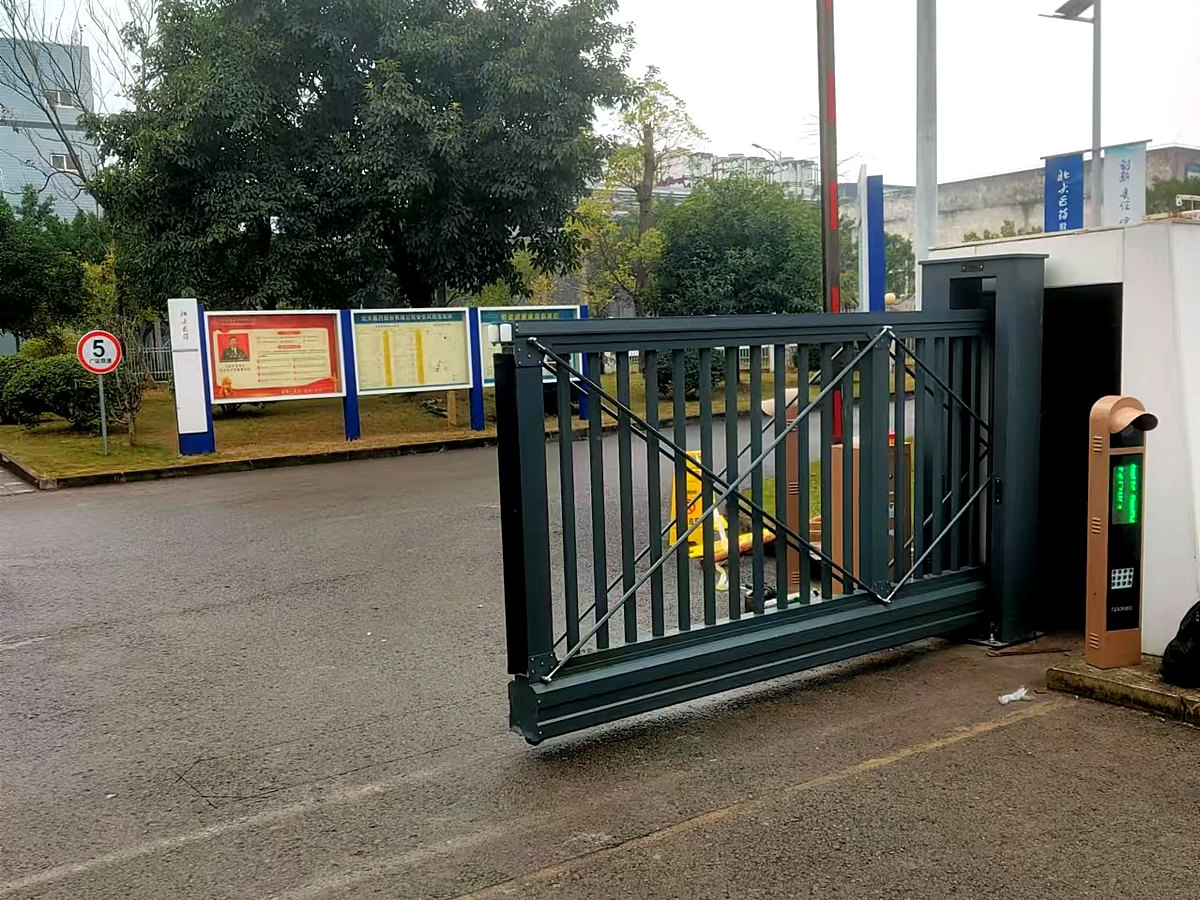
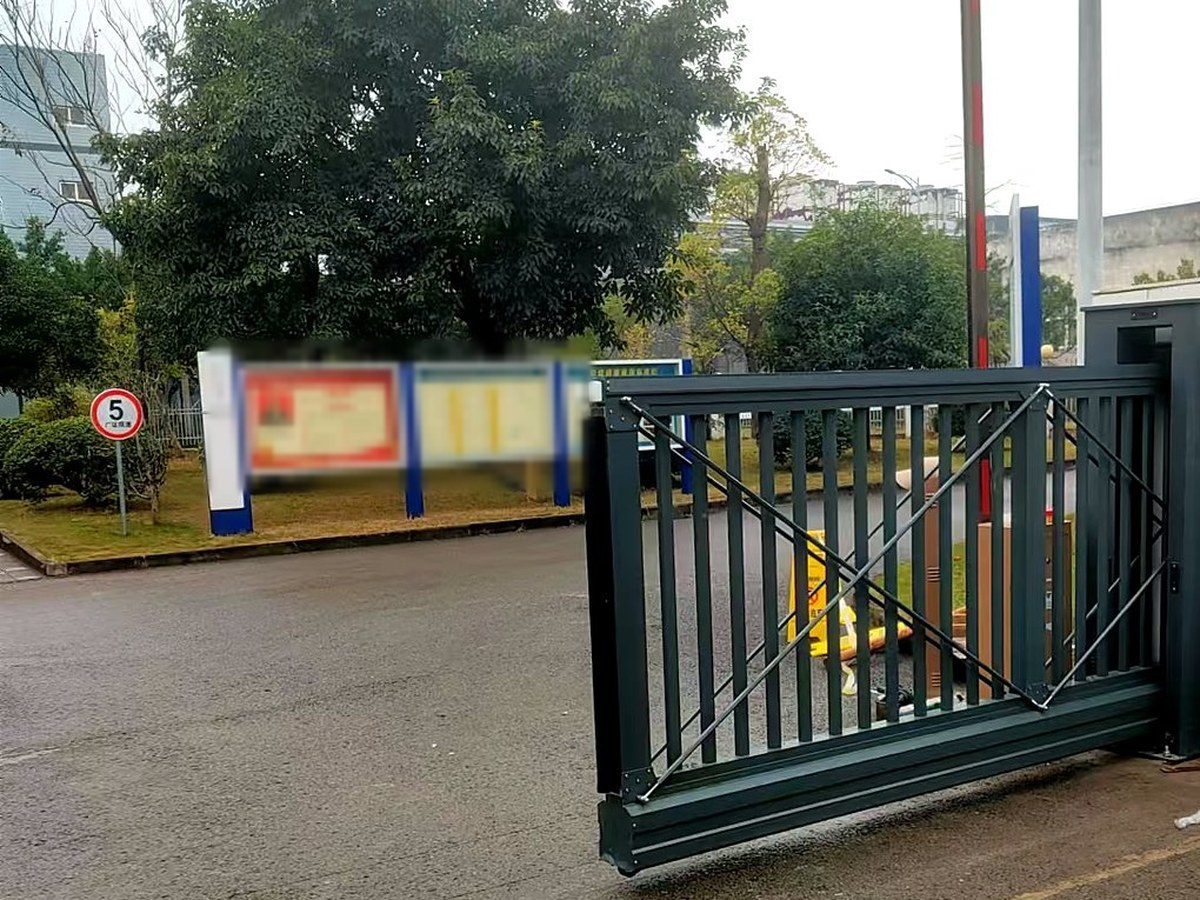
image: 悬浮门图片隐去客户标识（主图裁掉标识墙、第二图与案例图打码），引用加版本号

diff --git a/cases/suspended-gate-case.html b/cases/suspended-gate-case.html
@@ -17,7 +17,7 @@
 <meta property="og:title" content="某上市药企厂区悬浮门项目案例｜无地轨大门｜立高门业">
 <meta property="og:description" content="某上市药企厂区主入口悬浮门项目：无地轨、门口地面完整，配合道闸管理车辆进出。了解悬浮门选型、安装要点与现场实拍。">
 <meta property="og:url" content="https://ligaomenye.com/cases/suspended-gate-case.html">
-<meta property="og:image" content="https://ligaomenye.com/images/projects/suspended-gate.jpg">
+<meta property="og:image" content="https://ligaomenye.com/images/projects/suspended-gate.jpg?v=3">
 <meta name="twitter:card" content="summary_large_image">
 <link rel="icon" href="../images/favicon.png">
 <style>
@@ -171,7 +171,7 @@ footer a { color:#c3d3e0; }
   .strip p { font-size:15px; }
 }
 </style>
-<script type="application/ld+json">{"@context": "https://schema.org", "@graph": [{"@type": "Article", "headline": "某上市药企厂区悬浮门项目案例", "description": "某上市药企厂区主入口悬浮门项目：无地轨、门口地面完整，配合道闸管理车辆进出。了解悬浮门选型、安装要点与现场实拍。", "image": ["https://ligaomenye.com/images/projects/suspended-gate.jpg"], "datePublished": "2026-10-24", "dateModified": "2026-10-24", "author": {"@type": "Organization", "name": "重庆立高门业有限公司", "url": "https://ligaomenye.com/"}, "publisher": {"@type": "Organization", "name": "重庆立高门业有限公司", "url": "https://ligaomenye.com/"}, "mainEntityOfPage": {"@type": "WebPage", "@id": "https://ligaomenye.com/cases/suspended-gate-case.html"}}, {"@type": "FAQPage", "mainEntity": [{"@type": "Question", "name": "悬浮门适合医药园区吗？", "acceptedAnswer": {"@type": "Answer", "text": "适合主入口这类要求地面完整、通行宽度大的位置。无地轨便于清洁，门体关闭后能形成边界；但基础、抗风和防撞要按现场核算。"}}, {"@type": "Question", "name": "悬浮门需要地面轨道吗？", "acceptedAnswer": {"@type": "Answer", "text": "不需要地面轨道，但需要下梁、托轮和立柱导向，两侧基础要能承受门体荷载。地面不开槽不等于没有安装要求。"}}, {"@type": "Question", "name": "能和道闸一起用吗？", "acceptedAnswer": {"@type": "Answer", "text": "可以。常见是悬浮门管大门边界，道闸管车辆进出和识别；两者逻辑要协调，避免同时动作或夹车。"}}]}, {"@type": "BreadcrumbList", "itemListElement": [{"@type": "ListItem", "position": 1, "name": "首页", "item": "https://ligaomenye.com/"}, {"@type": "ListItem", "position": 2, "name": "工程案例", "item": "https://ligaomenye.com/#projects"}, {"@type": "ListItem", "position": 3, "name": "某上市药企", "item": "https://ligaomenye.com/cases/suspended-gate-case.html"}]}]}</script>
+<script type="application/ld+json">{"@context": "https://schema.org", "@graph": [{"@type": "Article", "headline": "某上市药企厂区悬浮门项目案例", "description": "某上市药企厂区主入口悬浮门项目：无地轨、门口地面完整，配合道闸管理车辆进出。了解悬浮门选型、安装要点与现场实拍。", "image": ["https://ligaomenye.com/images/projects/suspended-gate.jpg?v=3"], "datePublished": "2026-10-24", "dateModified": "2026-10-24", "author": {"@type": "Organization", "name": "重庆立高门业有限公司", "url": "https://ligaomenye.com/"}, "publisher": {"@type": "Organization", "name": "重庆立高门业有限公司", "url": "https://ligaomenye.com/"}, "mainEntityOfPage": {"@type": "WebPage", "@id": "https://ligaomenye.com/cases/suspended-gate-case.html"}}, {"@type": "FAQPage", "mainEntity": [{"@type": "Question", "name": "悬浮门适合医药园区吗？", "acceptedAnswer": {"@type": "Answer", "text": "适合主入口这类要求地面完整、通行宽度大的位置。无地轨便于清洁，门体关闭后能形成边界；但基础、抗风和防撞要按现场核算。"}}, {"@type": "Question", "name": "悬浮门需要地面轨道吗？", "acceptedAnswer": {"@type": "Answer", "text": "不需要地面轨道，但需要下梁、托轮和立柱导向，两侧基础要能承受门体荷载。地面不开槽不等于没有安装要求。"}}, {"@type": "Question", "name": "能和道闸一起用吗？", "acceptedAnswer": {"@type": "Answer", "text": "可以。常见是悬浮门管大门边界，道闸管车辆进出和识别；两者逻辑要协调，避免同时动作或夹车。"}}]}, {"@type": "BreadcrumbList", "itemListElement": [{"@type": "ListItem", "position": 1, "name": "首页", "item": "https://ligaomenye.com/"}, {"@type": "ListItem", "position": 2, "name": "工程案例", "item": "https://ligaomenye.com/#projects"}, {"@type": "ListItem", "position": 3, "name": "某上市药企", "item": "https://ligaomenye.com/cases/suspended-gate-case.html"}]}]}</script>
 </head><body>
 <nav>
   <div class="inner">
@@ -204,7 +204,7 @@ footer a { color:#c3d3e0; }
       </div>
     </div>
     <div class="phero-visual">
-      <img src="../images/projects/suspended-gate.jpg" alt="某上市药企悬浮门项目 — 重庆立高门业" width="1200" height="900" style="height:420px;object-fit:cover" fetchpriority="high">
+      <img src="../images/projects/suspended-gate.jpg?v=3" alt="某上市药企悬浮门项目 — 重庆立高门业" width="1200" height="900" style="height:420px;object-fit:cover" fetchpriority="high">
       <p class="cap">某上市药企 · 厂区主入口悬浮门</p>
     </div>
   </div>
@@ -247,7 +247,7 @@ footer a { color:#c3d3e0; }
     <section>
       <h2>现场照片</h2>
       <div class="gal">
-        <figure><img src="../images/projects/suspended-gate.jpg" alt="某上市药企厂区主入口悬浮门 — 重庆立高门业" width="1049" height="1400" loading="lazy"><figcaption>某上市药企 · 厂区主入口 · 悬浮门</figcaption></figure>
+        <figure><img src="../images/projects/suspended-gate.jpg?v=3" alt="某上市药企厂区主入口悬浮门 — 重庆立高门业" width="1049" height="1400" loading="lazy"><figcaption>某上市药企 · 厂区主入口 · 悬浮门</figcaption></figure>
       </div>
     </section>
 

diff --git a/guides/retractable-vs-suspended.html b/guides/retractable-vs-suspended.html
@@ -17,7 +17,7 @@
 <meta property="og:title" content="伸缩门和悬浮门有什么区别？优缺点、价格与适用场景｜立高门业">
 <meta property="og:description" content="伸缩门和悬浮门怎么选？从结构、地面条件、抗风、价格、维护和适用场景对比，附选型清单。重庆立高门业，电话189-8391-9000。">
 <meta property="og:url" content="https://ligaomenye.com/guides/retractable-vs-suspended.html">
-<meta property="og:image" content="https://ligaomenye.com/images/products/suspended-door.jpg">
+<meta property="og:image" content="https://ligaomenye.com/images/products/suspended-door.jpg?v=3">
 <meta name="twitter:card" content="summary_large_image">
 <link rel="icon" href="../images/favicon.png">
 <style>
@@ -171,7 +171,7 @@ footer a { color:#c3d3e0; }
   .strip p { font-size:15px; }
 }
 </style>
-<script type="application/ld+json">{"@context": "https://schema.org", "@graph": [{"@type": "Article", "headline": "伸缩门和悬浮门有什么区别？", "description": "伸缩门和悬浮门怎么选？从结构、地面条件、抗风、价格、维护和适用场景对比，附选型清单。重庆立高门业，电话189-8391-9000。", "image": ["https://ligaomenye.com/images/products/suspended-door.jpg"], "datePublished": "2026-10-24", "dateModified": "2026-10-24", "author": {"@type": "Organization", "name": "重庆立高门业有限公司", "url": "https://ligaomenye.com/"}, "publisher": {"@type": "Organization", "name": "重庆立高门业有限公司", "url": "https://ligaomenye.com/"}, "mainEntityOfPage": {"@type": "WebPage", "@id": "https://ligaomenye.com/guides/retractable-vs-suspended.html"}}, {"@type": "FAQPage", "mainEntity": [{"@type": "Question", "name": "悬浮门是不是完全不用轨道？", "acceptedAnswer": {"@type": "Answer", "text": "不铺地面轨道，但仍有下梁、托轮和立柱导向。地面不需要开槽，不等于对基础和安装没有要求。"}}, {"@type": "Question", "name": "伸缩门和悬浮门哪个贵？", "acceptedAnswer": {"@type": "Answer", "text": "同长度下，伸缩门通常更低；悬浮门的结构、驱动和基础成本更高。具体要看门洞、门体长度、材质和配置。"}}, {"@type": "Question", "name": "旧地面能不能装？", "acceptedAnswer": {"@type": "Answer", "text": "要看平整度、坡度和基础条件。伸缩门需要导轨基础；悬浮门需要两侧立柱和承载基础，必要时做局部改造。"}}, {"@type": "Question", "name": "大风地区用哪种？", "acceptedAnswer": {"@type": "Answer", "text": "两种都要按当地风压和门体长度核算。悬浮门框架结构抗风较好，但超长、超高门体仍需做专项计算，不能只看门型。"}}]}, {"@type": "BreadcrumbList", "itemListElement": [{"@type": "ListItem", "position": 1, "name": "首页", "item": "https://ligaomenye.com/"}, {"@type": "ListItem", "position": 2, "name": "产品中心", "item": "https://ligaomenye.com/#products"}, {"@type": "ListItem", "position": 3, "name": "伸缩门和悬浮门区别", "item": "https://ligaomenye.com/guides/retractable-vs-suspended.html"}]}]}</script>
+<script type="application/ld+json">{"@context": "https://schema.org", "@graph": [{"@type": "Article", "headline": "伸缩门和悬浮门有什么区别？", "description": "伸缩门和悬浮门怎么选？从结构、地面条件、抗风、价格、维护和适用场景对比，附选型清单。重庆立高门业，电话189-8391-9000。", "image": ["https://ligaomenye.com/images/products/suspended-door.jpg?v=3"], "datePublished": "2026-10-24", "dateModified": "2026-10-24", "author": {"@type": "Organization", "name": "重庆立高门业有限公司", "url": "https://ligaomenye.com/"}, "publisher": {"@type": "Organization", "name": "重庆立高门业有限公司", "url": "https://ligaomenye.com/"}, "mainEntityOfPage": {"@type": "WebPage", "@id": "https://ligaomenye.com/guides/retractable-vs-suspended.html"}}, {"@type": "FAQPage", "mainEntity": [{"@type": "Question", "name": "悬浮门是不是完全不用轨道？", "acceptedAnswer": {"@type": "Answer", "text": "不铺地面轨道，但仍有下梁、托轮和立柱导向。地面不需要开槽，不等于对基础和安装没有要求。"}}, {"@type": "Question", "name": "伸缩门和悬浮门哪个贵？", "acceptedAnswer": {"@type": "Answer", "text": "同长度下，伸缩门通常更低；悬浮门的结构、驱动和基础成本更高。具体要看门洞、门体长度、材质和配置。"}}, {"@type": "Question", "name": "旧地面能不能装？", "acceptedAnswer": {"@type": "Answer", "text": "要看平整度、坡度和基础条件。伸缩门需要导轨基础；悬浮门需要两侧立柱和承载基础，必要时做局部改造。"}}, {"@type": "Question", "name": "大风地区用哪种？", "acceptedAnswer": {"@type": "Answer", "text": "两种都要按当地风压和门体长度核算。悬浮门框架结构抗风较好，但超长、超高门体仍需做专项计算，不能只看门型。"}}]}, {"@type": "BreadcrumbList", "itemListElement": [{"@type": "ListItem", "position": 1, "name": "首页", "item": "https://ligaomenye.com/"}, {"@type": "ListItem", "position": 2, "name": "产品中心", "item": "https://ligaomenye.com/#products"}, {"@type": "ListItem", "position": 3, "name": "伸缩门和悬浮门区别", "item": "https://ligaomenye.com/guides/retractable-vs-suspended.html"}]}]}</script>
 </head><body>
 <nav>
   <div class="inner">
@@ -204,7 +204,7 @@ footer a { color:#c3d3e0; }
       </div>
     </div>
     <div class="phero-visual">
-      <img src="../images/products/suspended-door.jpg" alt="伸缩门和悬浮门区别 — 重庆立高门业" width="1200" height="900" fetchpriority="high">
+      <img src="../images/products/suspended-door.jpg?v=3" alt="伸缩门和悬浮门区别 — 重庆立高门业" width="1200" height="900" fetchpriority="high">
       <p class="cap">悬浮门 · 无地轨大门</p>
     </div>
   </div>

diff --git a/suspended-door.html b/suspended-door.html
@@ -17,7 +17,7 @@
 <meta property="og:title" content="悬浮门（无轨悬浮大门）选型与参数｜重庆立高门业">
 <meta property="og:description" content="悬浮门怎么选：无地轨的运行原理、适用洞口宽度与门体高度、立柱基础与安装条件、维护周期，附某上市药企项目实拍与产品图。重庆本地勘测报价 189-8391-9000。">
 <meta property="og:url" content="https://ligaomenye.com/suspended-door.html">
-<meta property="og:image" content="https://ligaomenye.com/images/products/suspended-door.jpg">
+<meta property="og:image" content="https://ligaomenye.com/images/products/suspended-door.jpg?v=3">
 <meta name="twitter:card" content="summary_large_image">
 <link rel="icon" href="images/favicon.png">
 <script type="application/ld+json">
@@ -29,7 +29,7 @@
   "description": "悬浮门怎么选：无地轨的运行原理、适用洞口宽度与门体高度、立柱基础与安装条件、维护周期，附某上市药企项目实拍与产品图。重庆本地勘测报价 189-8391-9000。",
   "category": "电动大门 / 无轨悬浮门",
   "image": [
-   "https://ligaomenye.com/images/products/suspended-door.jpg"
+   "https://ligaomenye.com/images/products/suspended-door.jpg?v=3"
   ],
   "url": "https://ligaomenye.com/suspended-door.html",
   "brand": {
@@ -318,7 +318,7 @@ footer a { color:#c3d3e0; }
       </div>
     </div>
     <div class="phero-visual">
-      <img src="images/products/suspended-door.jpg" alt="悬浮门（某上市药企项目实拍）— 重庆立高门业" width="1200" height="900" fetchpriority="high">
+      <img src="images/products/suspended-door.jpg?v=3" alt="悬浮门（某上市药企项目实拍）— 重庆立高门业" width="1200" height="900" fetchpriority="high">
       <p class="cap">某上市药企 · 无轨悬浮门</p>
     </div>
   </div>
@@ -404,8 +404,8 @@ footer a { color:#c3d3e0; }
     <section>
       <h2>项目实拍</h2>
       <div class="gal">
-        <figure><img src="images/products/suspended-door.jpg" alt="某上市药企悬浮门（闭合状态）— 重庆立高门业" width="1200" height="900" loading="lazy"><figcaption>某上市药企 · 悬浮门（闭合）</figcaption></figure>
-        <figure><img src="images/products/suspended-door-2.jpg" alt="某上市药企悬浮门（运行状态，门体离地无地轨）— 重庆立高门业" width="1200" height="900" loading="lazy"><figcaption>某上市药企 · 门体运行状态</figcaption></figure>
+        <figure><img src="images/products/suspended-door.jpg?v=3" alt="某上市药企悬浮门（闭合状态）— 重庆立高门业" width="1200" height="900" loading="lazy"><figcaption>某上市药企 · 悬浮门（闭合）</figcaption></figure>
+        <figure><img src="images/products/suspended-door-2.jpg?v=3" alt="某上市药企悬浮门（运行状态，门体离地无地轨）— 重庆立高门业" width="1200" height="900" loading="lazy"><figcaption>某上市药企 · 门体运行状态</figcaption></figure>
         <figure><img src="images/products/suspended-door-3.jpg" alt="悬浮门 01 产品图（无地轨，门体离地运行）— 重庆立高门业" width="1200" height="477" loading="lazy"><figcaption>产品图 · 悬浮门 01</figcaption></figure>
       </div>
     </section>

diff --git a/index.html b/index.html
@@ -210,7 +210,7 @@
         "name": "悬浮门",
         "description": "无轨悬浮运行，超宽洞口，高抗风性能，运行平稳",
         "category": "电动门",
-        "image": "https://ligaomenye.com/images/products/suspended-door.jpg"
+        "image": "https://ligaomenye.com/images/products/suspended-door.jpg?v=3"
       }
     },
     {
@@ -764,7 +764,7 @@ footer p + p { margin-top: 6px; }
 
       <article class="product-card featured">
         <a class="pic" href="suspended-door.html" aria-label="查看悬浮门详情">
-          <img src="images/products/suspended-door.jpg" alt="悬浮门 — 重庆立高门业" width="1200" height="900" loading="lazy">
+          <img src="images/products/suspended-door.jpg?v=3" alt="悬浮门 — 重庆立高门业" width="1200" height="900" loading="lazy">
           <span class="pic-idx">04</span><span class="pic-cta">查看详情 →</span>
         
           <div class="pic-cap"><svg xmlns="http://www.w3.org/2000/svg" width="11" height="11" viewBox="0 0 24 24" fill="none" stroke="currentColor" stroke-width="2" stroke-linecap="round" stroke-linejoin="round" style="vertical-align:-1px;margin-right:3px"><path d="M21 10c0 7-9 12.5-9 12.5S3 17 3 10a9 9 0 0 1 18 0z"/><circle cx="12" cy="10" r="3"/></svg>某上市药企</div>
@@ -951,7 +951,7 @@ footer p + p { margin-top: 6px; }
         <div class="cap"><h3>成都顶津食品</h3><p>快速门 · 2020</p></div>
       </div>
       <div class="project-card">
-        <img src="images/projects/suspended-gate.jpg" style="object-position:center 28%" alt="某上市药企悬浮门项目 — 重庆立高门业" width="1049" height="1400" loading="lazy">
+        <img src="images/projects/suspended-gate.jpg?v=3" style="object-position:center 28%" alt="某上市药企悬浮门项目 — 重庆立高门业" width="1049" height="1400" loading="lazy">
         <div class="cap"><h3><a href="cases/suspended-gate-case.html" style="color:inherit">某上市药企</a></h3><p>悬浮门</p></div>
       </div>
       <div class="project-card">

diff --git a/news/suspended-gate-project.html b/news/suspended-gate-project.html
@@ -17,7 +17,7 @@
 <meta property="og:title" content="某上市药企园区主入口：悬浮门为什么不做地轨？｜立高门业">
 <meta property="og:description" content="某上市药企厂区主入口用了悬浮门，门口没有地轨，地面保持完整；旁边配道闸管理车辆进出。">
 <meta property="og:url" content="https://ligaomenye.com/news/suspended-gate-project.html">
-<meta property="og:image" content="https://ligaomenye.com/images/projects/suspended-gate.jpg">
+<meta property="og:image" content="https://ligaomenye.com/images/projects/suspended-gate.jpg?v=3">
 <meta name="twitter:card" content="summary_large_image">
 <link rel="icon" href="../images/favicon.png">
 <style>
@@ -180,7 +180,7 @@ footer a { color:#c3d3e0; }
       "headline": "某上市药企园区主入口：悬浮门为什么不做地轨？",
       "description": "某上市药企厂区主入口用了悬浮门，门口没有地轨，地面保持完整；旁边配道闸管理车辆进出。",
       "image": [
-        "https://ligaomenye.com/images/projects/suspended-gate.jpg"
+        "https://ligaomenye.com/images/projects/suspended-gate.jpg?v=3"
       ],
       "datePublished": "2026-10-25",
       "dateModified": "2026-10-25",
@@ -292,7 +292,7 @@ footer a { color:#c3d3e0; }
       </div>
     </div>
     <div class="phero-visual">
-      <img src="../images/projects/suspended-gate.jpg" alt="某上市药企厂区主入口悬浮门 — 重庆立高门业" width="1200" height="900" style="height:420px;object-fit:cover" fetchpriority="high">
+      <img src="../images/projects/suspended-gate.jpg?v=3" alt="某上市药企厂区主入口悬浮门 — 重庆立高门业" width="1200" height="900" style="height:420px;object-fit:cover" fetchpriority="high">
     </div>
   </div>
 </header>

diff --git a/news/company/index.html b/news/company/index.html
@@ -94,7 +94,7 @@ footer a{color:#fff}@media(max-width:900px){.grid{grid-template-columns:repeat(2
 <img src="../../images/projects/dongfang-xiwang.jpg" alt="东方希望水泥堆积门 — 重庆立高门业" width="1200" height="900" loading="lazy">
 <div class="body">
 <h2>东方希望水泥项目：大洞口为什么选堆积门？</h2><span class="more">阅读全文 →</span></div></a><a class="card" href="../suspended-gate-project.html">
-<img src="../../images/projects/suspended-gate.jpg" alt="某上市药企厂区主入口悬浮门 — 重庆立高门业" width="1200" height="900" loading="lazy">
+<img src="../../images/projects/suspended-gate.jpg?v=3" alt="某上市药企厂区主入口悬浮门 — 重庆立高门业" width="1200" height="900" loading="lazy">
 <div class="body">
 <h2>某上市药企园区主入口：悬浮门为什么不做地轨？</h2><span class="more">阅读全文 →</span></div></a></div></div></section>
 <section class="section" style="background:#fff"><div class="inner"><h2>项目案例</h2>

diff --git a/cases/index.html b/cases/index.html
@@ -95,7 +95,7 @@ footer a{color:#fff}
 <img src="../images/projects/dongfang-xiwang.jpg" alt="东方希望项目 — 重庆立高门业" width="1200" height="900" loading="lazy">
 <div class="body"><h3>东方希望</h3><p>重庆燕子村水泥项目堆积门，2021 年。</p><span class="more">查看案例 →</span></div></a>
 <a class="card" href="suspended-gate-case.html">
-<img src="../images/projects/suspended-gate.jpg" alt="某上市药企项目 — 重庆立高门业" width="1200" height="900" loading="lazy">
+<img src="../images/projects/suspended-gate.jpg?v=3" alt="某上市药企项目 — 重庆立高门业" width="1200" height="900" loading="lazy">
 <div class="body"><h3>某上市药企</h3><p>医药园区主入口悬浮门。</p><span class="more">查看案例 →</span></div></a>
 <a class="card" href="segment-gate-case.html">
 <img src="../images/projects/segment-gate.jpg?v=2" alt="某上市药企厂区入口段滑门项目 — 重庆立高门业" width="1200" height="900" loading="lazy">

diff --git a/products/index.html b/products/index.html
@@ -101,7 +101,7 @@ footer a{color:#fff}
 <img src="../images/products/telescopic-door.jpg" alt="电动伸缩门 — 重庆立高门业" width="1200" height="900" loading="lazy">
 <div class="body"><h3>电动伸缩门</h3><p>平行四边形收放，适合园区大门和经济型出入口。</p><span class="more">查看产品 →</span></div></a>
 <a class="card" href="../suspended-door.html">
-<img src="../images/products/suspended-door.jpg" alt="悬浮门 — 重庆立高门业" width="1200" height="900" loading="lazy">
+<img src="../images/products/suspended-door.jpg?v=3" alt="悬浮门 — 重庆立高门业" width="1200" height="900" loading="lazy">
 <div class="body"><h3>悬浮门</h3><p>无地轨、门洞平整，适合超宽园区主入口。</p><span class="more">查看产品 →</span></div></a>
 <a class="card" href="../barrier-gate.html">
 <img src="../images/products/barrier-gate.jpg" alt="道闸 — 重庆立高门业" width="1200" height="900" loading="lazy">
